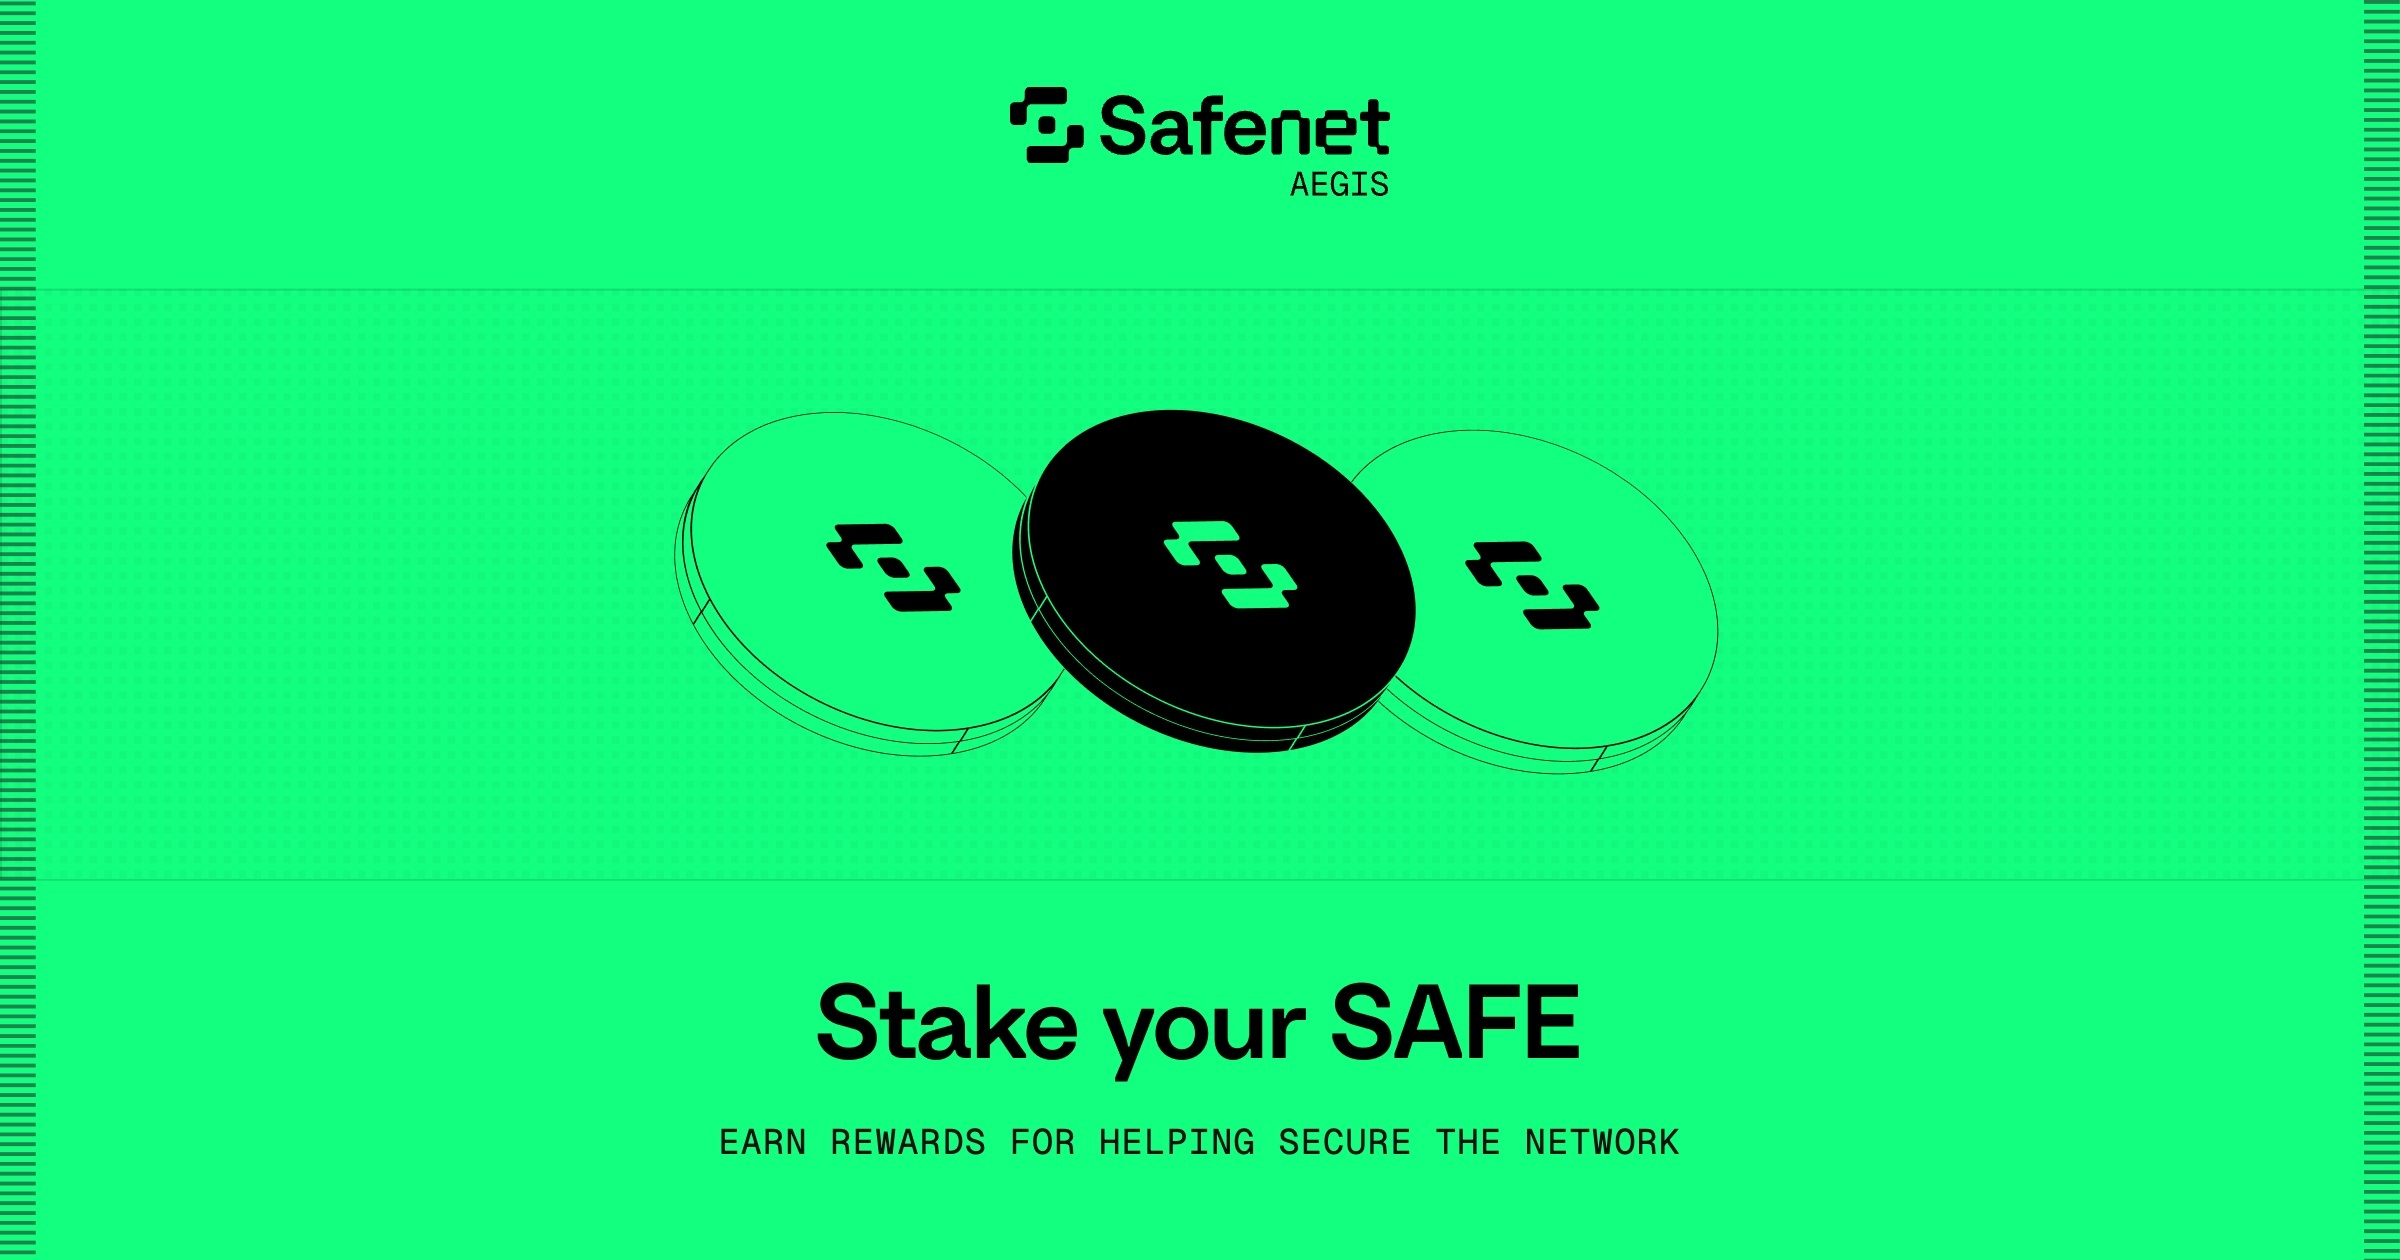
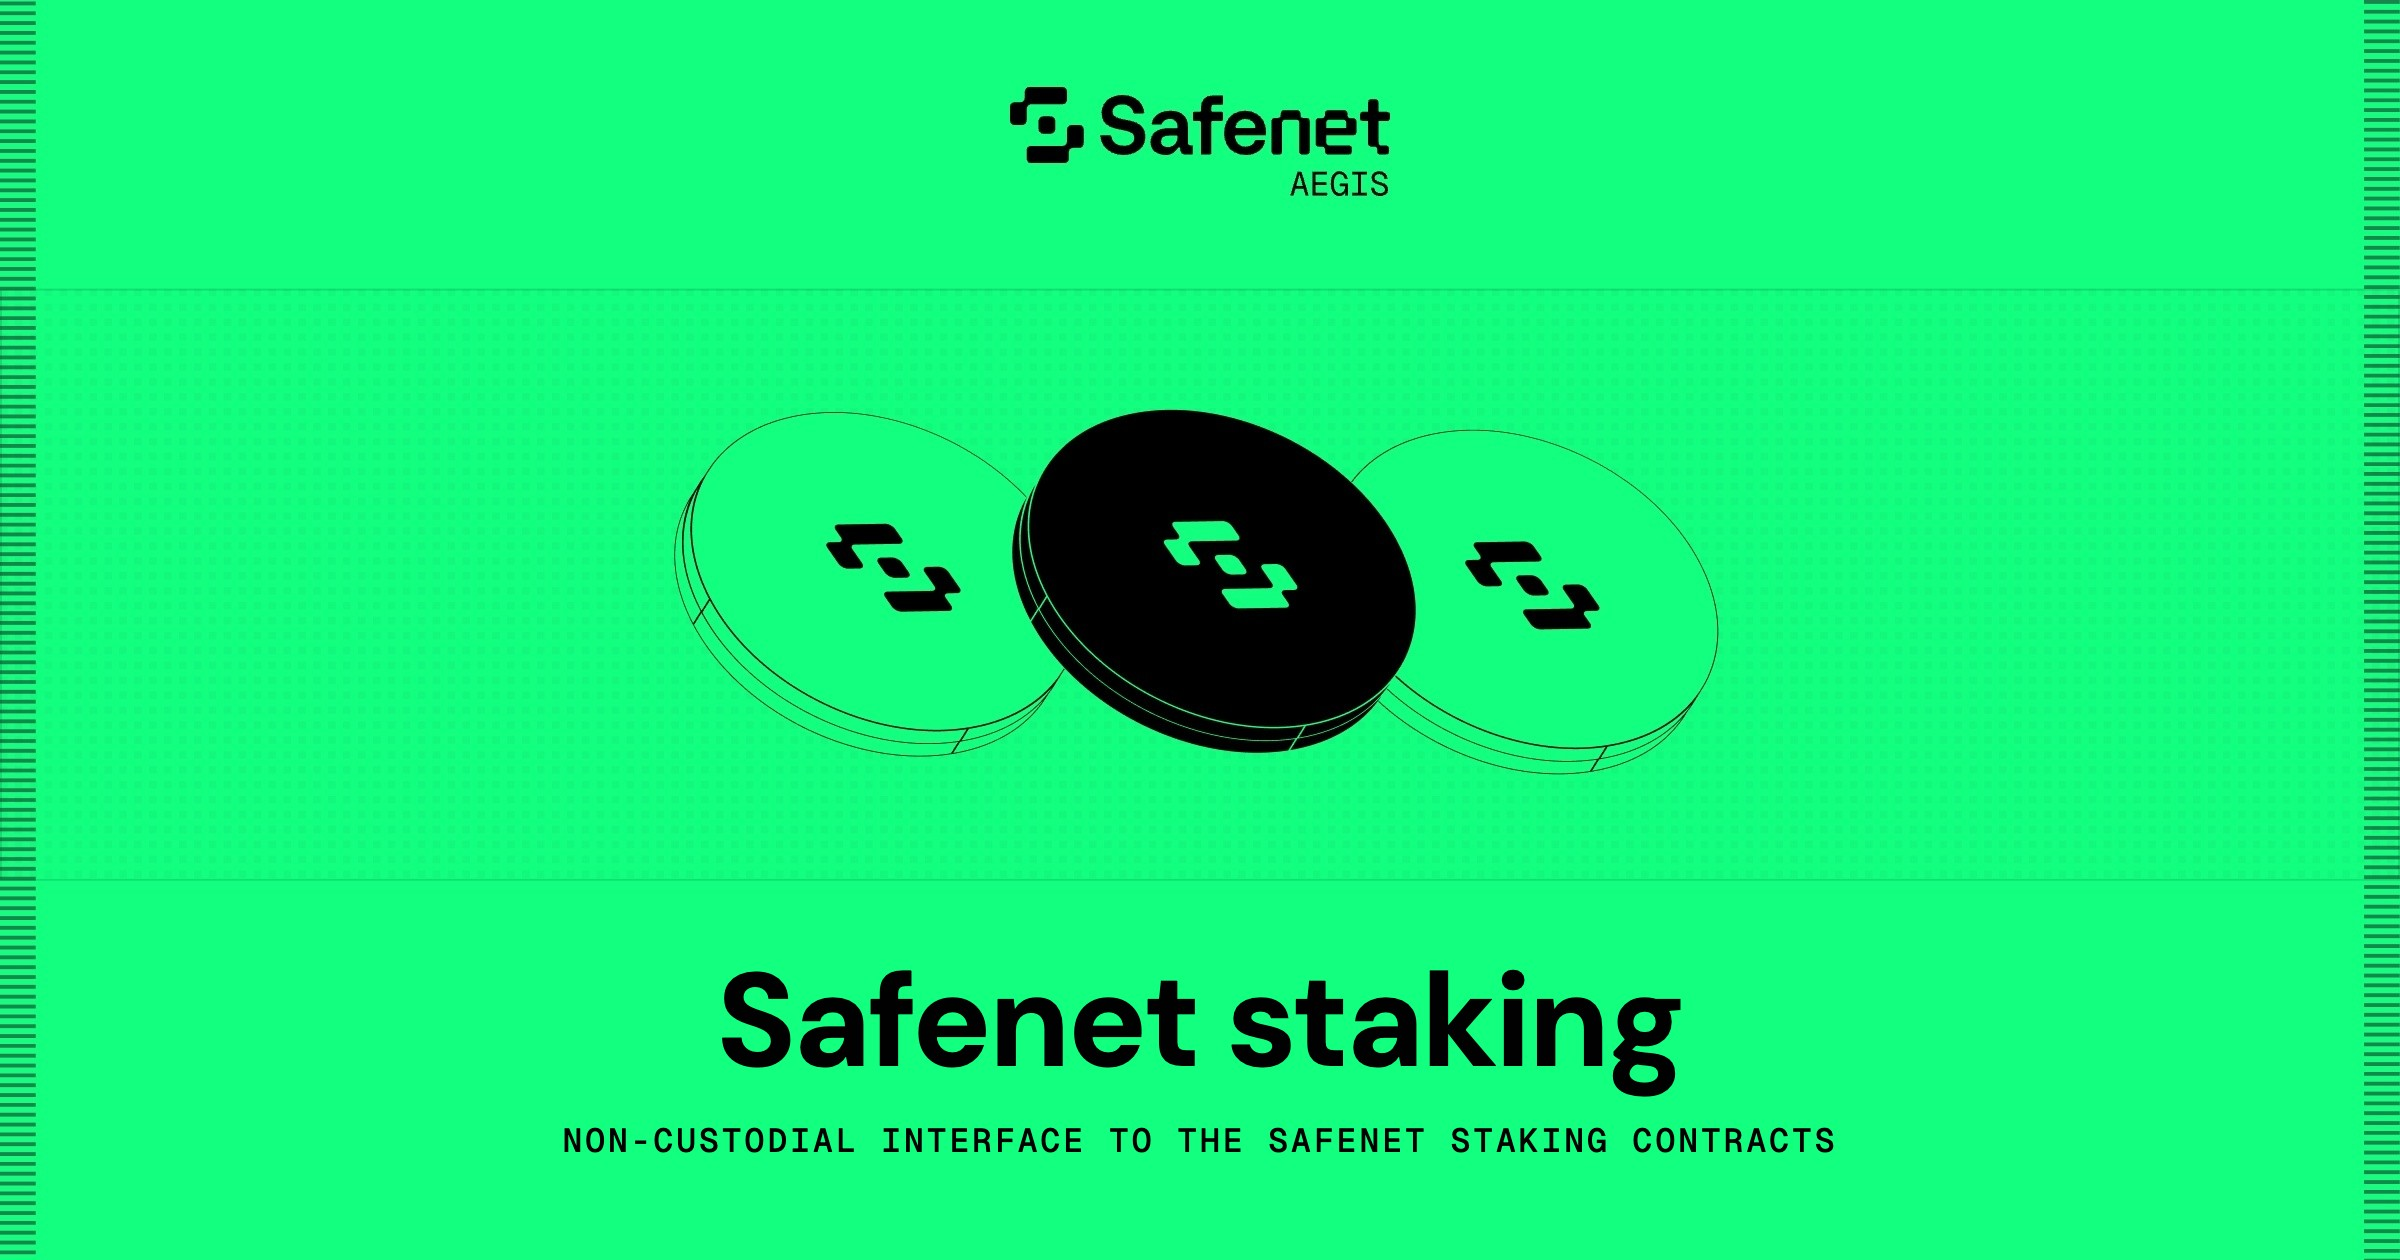
feat(web): neutral preview image and My stake subtitle
The preview image now reads "Safenet staking. Non-custodial interface to the
Safenet staking contracts" over the same artwork and logo, and its alt text
matches on the Open Graph and Twitter tags. The subtitle of My stake becomes
"Your positions in the Safenet staking contracts" in the eight languages.
Neither promises rewards any more.

Changed region(s): [[0.2188, 0.7738, 0.7812, 0.9286]]

diff --git a/apps/web/index.html b/apps/web/index.html
@@ -30,11 +30,12 @@
     <meta property="og:image" content="%VITE_APP_URL%/og-image.jpg" />
     <meta property="og:image:width" content="2400" />
     <meta property="og:image:height" content="1260" />
-    <meta property="og:image:alt" content="Safenet Staking: stake your SAFE and earn rewards for helping secure the network" />
+    <meta property="og:image:alt" content="Safenet staking: non-custodial interface to the Safenet staking contracts" />
     <meta name="twitter:card" content="summary_large_image" />
     <meta name="twitter:title" content="Safenet Staking" />
     <meta name="twitter:description" content="Non-custodial interface to the Safenet staking contracts." />
     <meta name="twitter:image" content="%VITE_APP_URL%/og-image.jpg" />
+    <meta name="twitter:image:alt" content="Safenet staking: non-custodial interface to the Safenet staking contracts" />
   </head>
   <body>
     <script>

diff --git a/apps/web/src/pages/DashboardPage.tsx b/apps/web/src/pages/DashboardPage.tsx
@@ -23,7 +23,7 @@ export function DashboardPage() {
     <div className="space-y-6">
       <PageHero
         title={t("dashboard.stakeYourSafe", "Stake your SAFE")}
-        subtitle={<Trans i18nKey="onboarding.hero.dashboard" defaults="Earn <rewards>rewards</rewards> for helping secure <network>Safenet</network>" components={{ rewards: <Term term="rewards" children={null} />, network: <Term term="safenet" children={null} /> }} />}
+        subtitle={<Trans i18nKey="onboarding.hero.dashboard" defaults="Your positions in the <network>Safenet</network> <staking>staking</staking> contracts" components={{ network: <Term term="safenet" children={null} />, staking: <Term term="staking" children={null} /> }} />}
       >
         <p className="mt-4 text-xs text-muted-foreground">
           {t("dashboard.rewardsAreNotGuaranteedAndMayVary", "Rewards are not guaranteed and may vary.")}{" "}

diff --git a/apps/web/e2e/tests/onboarding.spec.ts b/apps/web/e2e/tests/onboarding.spec.ts
@@ -9,7 +9,7 @@ import { REWARD_PROOFS, VALIDATORS } from "../fixtures/test-data"
 /** Where each term appears, and words its explanation must hold. */
 const TERMS_BY_SCREEN = [
   { path: "/", terms: [["Safenet", "transaction-security network"], ["staking", "staking contract behind a validator"]] },
-  { path: "/#/dashboard", terms: [["rewards", "you claim them"], ["Safenet", "transaction-security network"]] },
+  { path: "/#/dashboard", terms: [["Safenet", "transaction-security network"], ["staking", "staking contract behind a validator"]] },
   { path: "/#/validators", terms: [["validator", "attests results"], ["stake", "staking contract behind a validator"], ["Commission", "validator keeps"]] },
   { path: `/#/validators/${VALIDATORS.validatorA}`, terms: [["Commission", "validator keeps"]] },
   // The mocked staking contract's withdrawDelay is seven days.

diff --git a/apps/web/e2e/pages/dashboard.page.ts b/apps/web/e2e/pages/dashboard.page.ts
@@ -20,7 +20,7 @@ export class DashboardPage {
   constructor(page: Page) {
     this.page = page
     this.heading = page.getByRole("heading", { name: "Stake your SAFE" })
-    this.subtitle = page.getByText("Earn rewards for helping secure Safenet")
+    this.subtitle = page.getByText("Your positions in the Safenet staking contracts")
     this.statsCards = page.locator("[class*='grid'] > div").filter({ has: page.locator("[class*='CardTitle']") })
     this.totalDelegatedCard = page.getByText("Total SAFE Staked").locator("../..")
     this.yourDelegatedCard = page.getByText("Your Staked SAFE").locator("../..")

diff --git a/apps/web/src/__tests__/index-html.test.ts b/apps/web/src/__tests__/index-html.test.ts
@@ -40,4 +40,11 @@ describe("index.html", () => {
       expect(text).toBe("Non-custodial interface to the Safenet staking contracts.")
     }
   })
+
+  it("describes the preview image by the neutral text it carries", () => {
+    const alts = [...html.matchAll(/<meta (?:name|property)="(?:og:image:alt|twitter:image:alt)" content="([^"]+)"/g)].map((m) => m[1])
+
+    expect(alts).toEqual(Array(2).fill("Safenet staking: non-custodial interface to the Safenet staking contracts"))
+    expect(html).not.toMatch(/earn rewards/i)
+  })
 })

diff --git a/apps/web/src/pages/__tests__/DashboardPage.test.tsx b/apps/web/src/pages/__tests__/DashboardPage.test.tsx
@@ -74,7 +74,8 @@ describe("DashboardPage", () => {
     renderPage()
 
     expect(screen.getByText("Stake your SAFE")).toBeInTheDocument()
-    expect(screen.getByText(/Earn rewards for helping secure/)).toBeInTheDocument()
+    expect(screen.getByText(/Your positions in the/)).toHaveTextContent("Your positions in the Safenet staking contracts")
+    expect(screen.queryByText(/Earn rewards/)).toBeNull()
   })
 
   it("renders all child sections when connected", () => {
